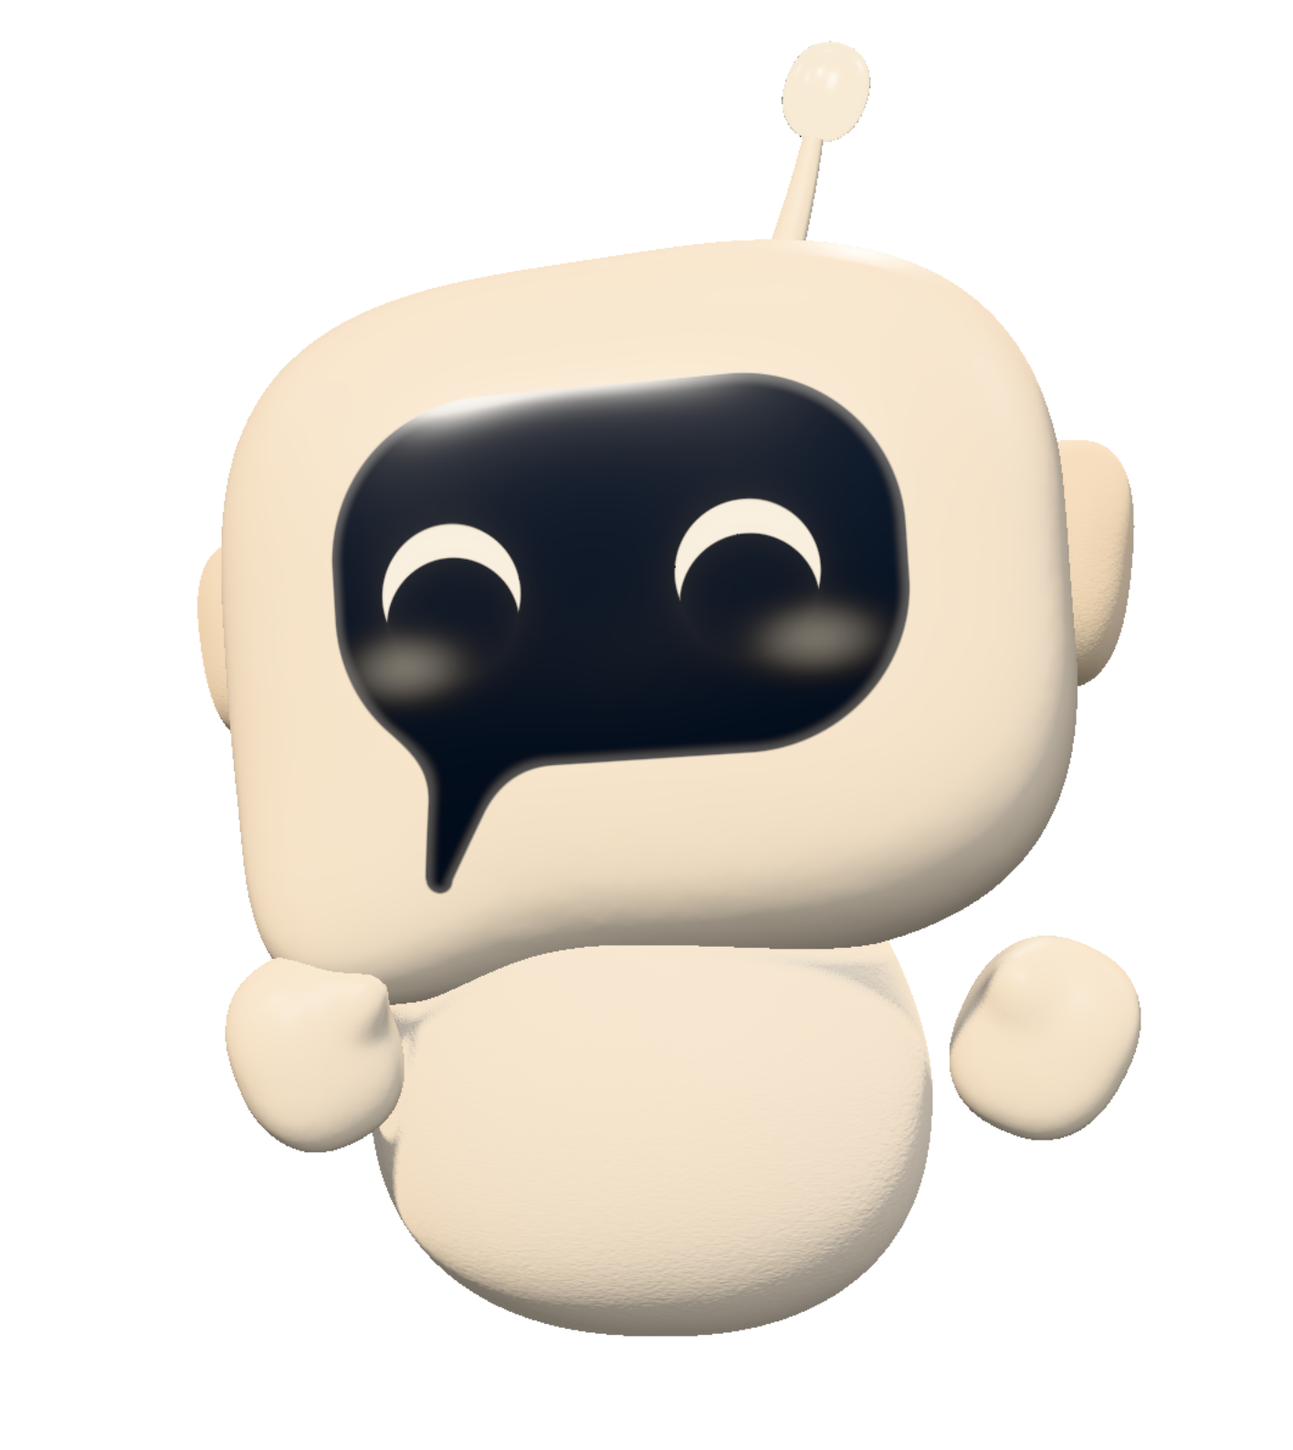
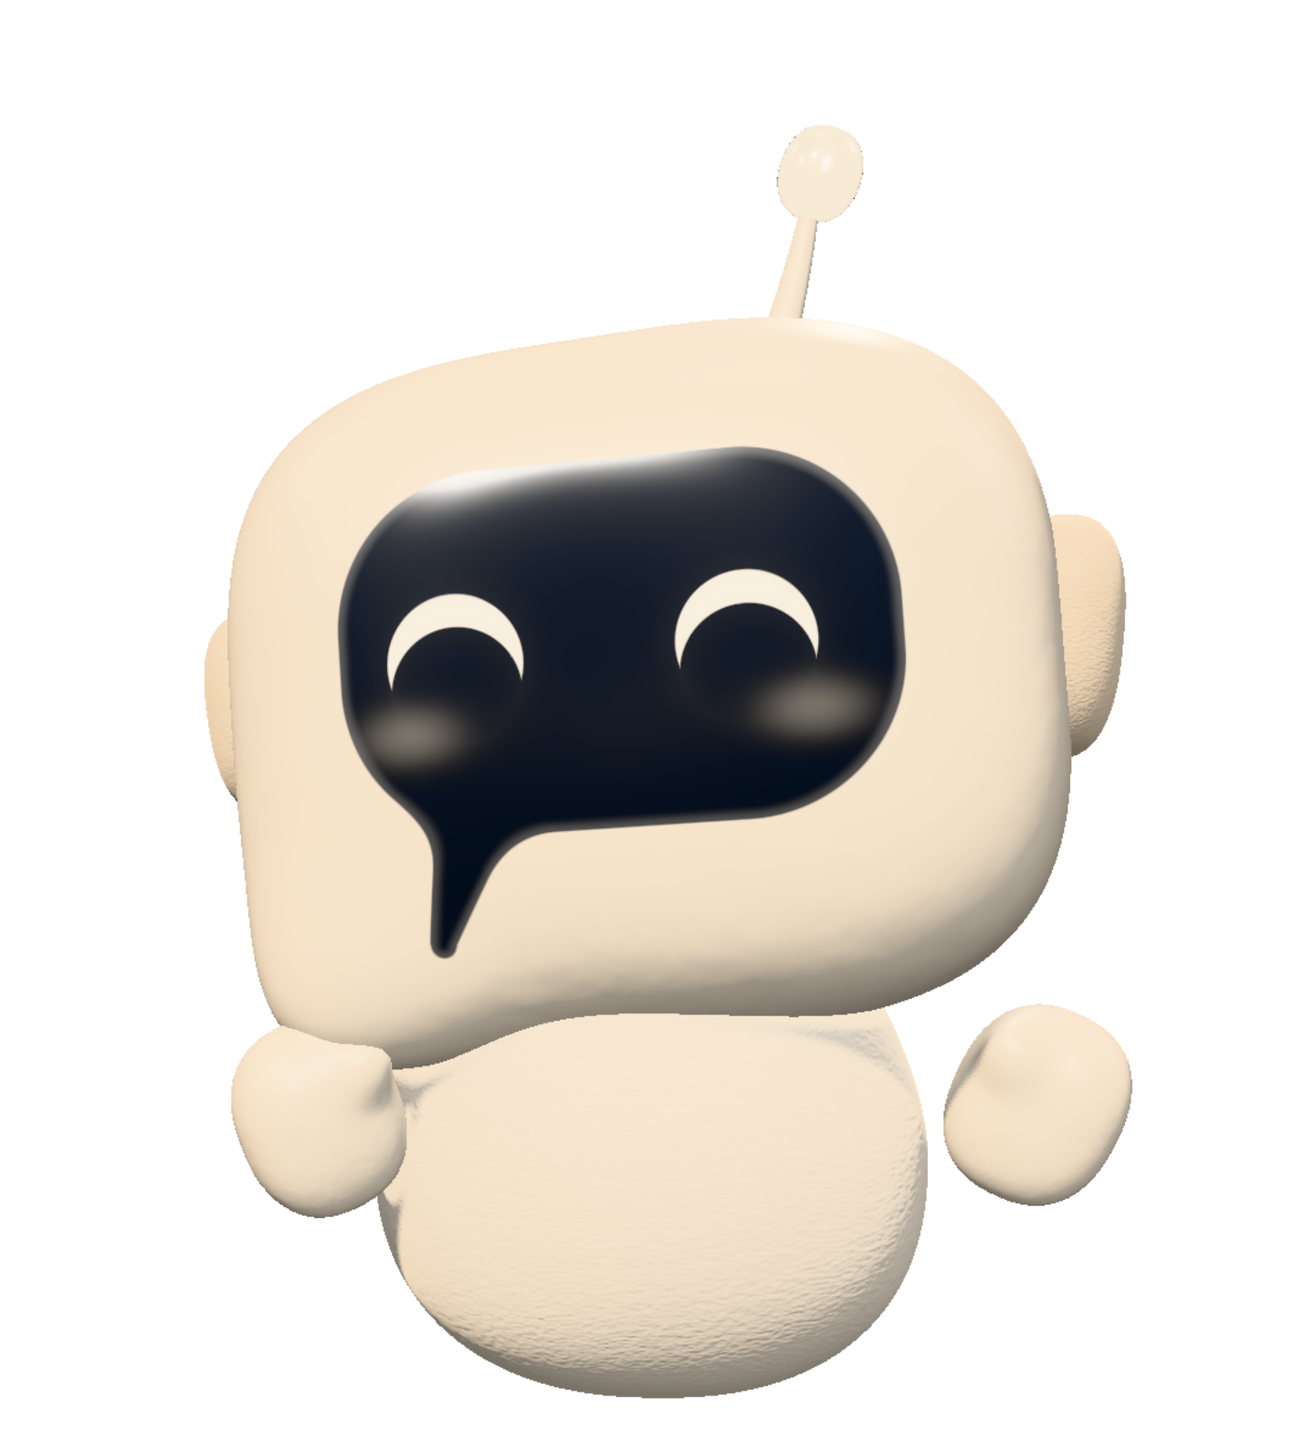
Framing fix (true mascot extents), docs (README, MASCOT, ARCHITECTURE), screenshot set, mobile caption

Changed region(s): [[0.1554, 0.0309, 0.9011, 0.9874]]

diff --git a/src/gl/World.ts b/src/gl/World.ts
@@ -17,8 +17,8 @@ import { createGlyphAtlas } from './passes/glyphAtlas';
 import { motionAllowed } from '@/scripts/motion';
 
 const HUES: Record<HueName, string> = { agents: '#f2b560', automation: '#5cd6c4', products: '#ff7d61', research: '#8db3ff', studio: '#f3e6cf' };
-const MASCOT_HEIGHT = 2.55; // rig units, floor to sprout tip
-const MASCOT_CENTER_Y = 1.25;
+const MASCOT_HEIGHT = 3.0; // rig units, measured floor (y = -0.08) to the top of the sprout bulb (y = 2.92)
+const MASCOT_CENTER_Y = 1.42;
 /** Let the browser breathe between heavy start-up steps, so no single task blocks input for long. */
 const yieldToMain = () => new Promise<void>((r) => setTimeout(r, 0));
 const damp = (a: number, b: number, l: number, dt: number) => a + (b - a) * (1 - Math.exp(-l * dt));
@@ -315,7 +315,7 @@ export class World {
     let pop = 1;
     if (anchor) {
       const r = anchor.el.getBoundingClientRect();
-      const targetH = Math.min(r.height, r.width * 1.1, H * 0.74) * 0.86;
+      const targetH = Math.min(r.height, r.width * 1.25, H * 0.86) * 0.97;
       const cy = (r.top + r.bottom) / 2;
       const cx = (r.left + r.right) / 2;
       const since = now - this.transition.at;

diff --git a/docs/MASCOT.md b/docs/MASCOT.md
@@ -1,0 +1,146 @@
+# Adi: the ADAI Systems character
+
+Adi is ADAI's real-time 3D companion. This document covers:
+- the character design and where it comes from;
+- the animation and expression system;
+- the asset pipeline;
+- the contract a future hand-authored model must follow to replace the procedural one without touching the website.
+
+Working name: **Adi** (from ADAI). The name is a placeholder; see "Decisions for Alex" at the end.
+
+## 1. Identity: from the mark to a character
+
+The existing ADAI mark (favicon `public/favicon.svg`, also inside `public/brand/adai-wordmark-source.svg`) is a circle containing a **speech bubble** with its tail at the lower left and **two round eyes**. Adi keeps that face and that idea, and nothing is extruded or traced:
+
+| Mark | Adi |
+|---|---|
+| Speech bubble | The whole **head** is a soft speech bubble, a sculpted superellipsoid with the bubble's tail as a nub at the lower left. |
+| Bubble inside the circle | A glossy ink **visor** in the same bubble shape, tail included, sitting on the face. |
+| Two round eyes | Two glowing round eyes at the **mark's exact proportions**: centres at ±25.8 % of the visor width, radius 12.5 % of it. |
+
+Everything else is new:
+- a soft plush pebble **body**;
+- floating mitten **hands** with soft thumbs;
+- felted **ear cushions**, deliberately unequal;
+- a bendy **thought sprout** that grows off-centre and leans;
+- a **chest light**.
+
+### Design rules
+- **Soft, not mechanical.** No joints, panels, seams, screws, circuit patterns or segmented limbs. Satin silicone for the head and hands, plush for the body, felt for the cushions.
+- **Small asymmetries:** bubble tail on one side, sprout off-centre and leaning, right cushion 12 % bigger and tilted, top-right of the head slightly fuller.
+- **Readable at low resolution.** Big shapes, one dark visor against a light shell, eyes that glow. The face survives being reduced to a handful of glyph cells.
+- **Colour carries meaning.** Adi is cream. The eyes, sprout bulb, chest light and rim light take the colour of the kind of work on screen: amber for agents, aqua for automation, coral for apps, sky for research, warm cream for the studio. This follows the existing Atlas rule that a hue stands for one kind of work.
+- **Personality:** friendly, curious and quick, slightly playful without being childish. Adi listens (cushions), thinks (the sprout glows, and the visor shows the three typing dots of a chat bubble) and talks (a voice waveform on the visor).
+
+## 2. How Adi is built today (procedural)
+
+All code is in `src/gl/mascot/`.
+
+| File | What it does |
+|---|---|
+| `shapes.ts` | Sculpts every part from high-resolution spheres reshaped per direction (superellipsoids plus soft directional bulges). The visor is sampled from the same surface as the head, so it hugs it exactly. |
+| `materials.ts` | Satin silicone, plush, cushion, glow and core materials (`MeshPhysicalMaterial`: sheen, clearcoat). Micro-surface normal maps are generated at runtime, so no texture downloads. |
+| `faceMaterial.ts` | The face: a signed-distance-field shader for the bubble visor, both eyes, lids, smile crescents, gaze, catch-lights, blush, the talking waveform and the typing dots. |
+| `expressions.ts` | Eleven expressions as parameter sets: neutral, happy, curious, surprised, thinking, focused, talking, excited, confused, sleepy, proud. |
+| `poses.ts` | Story poses used by page sections: expression + arrival gesture + hue + glyph styling + body turn. |
+| `ProceduralMascot.ts` | Assembles the rig and animates it. |
+| `rig.ts` | The `MascotRig` interface the website talks to. |
+| `GltfMascot.ts` | The same interface, for an authored GLB. |
+
+### Animation system (all frame-rate independent)
+- **Gaze leads.** Eyes (fast), then head (medium), then body (slow) follow the cursor, with clamps (head yaw ±31°, pitch ±19°). Micro-saccades run when the pointer is idle. A call to action under the pointer draws Adi's gaze to it.
+- **Blinking:** random intervals of 2.2 to 5.6 s, with an 18 % chance of a double blink.
+- **Idle life:**
+  - breathing, plus a slow sway and head drift;
+  - after 28 s with no input, Adi gets **sleepy** and wakes with a startle on the next input.
+- **Springs everywhere.** The hands and the sprout are damped springs, so every move has follow-through. A jump has gravity and squash-and-stretch on landing.
+- **Gestures:** keyframed hand targets layered over the springs: wave, point, think (hand to chin), cheer (both hands up and a hop), present (palm toward the content), shrug, nod.
+- **Reactions:**
+  - **Poke** (click on Adi): surprised, then happy, plus a hop and a boing of the sprout.
+  - **Startle:** a very fast pointer flick near Adi.
+  - **Notice:** the pointer arriving near Adi makes it curious.
+- **Story choreography** (`src/gl/World.ts`):
+  - Each page section can hold an empty box `data-mascot-anchor data-pose="…"`. Adi frames itself into the most central visible box.
+  - Adi glides over short distances, and pops out and back in over long ones, so it never sweeps across text.
+  - On arrival it changes pose, plays the gesture, shifts hue and runs a glyph sweep.
+  - The boxes are ordinary CSS, so the choreography is responsive by construction. Scrolling is never hijacked.
+- **Page events.** Any script can send `window.dispatchEvent(new CustomEvent('adai:mascot', { detail: { expression, gesture, pose, hue } }))`. The demos and the brief builder use this.
+
+### Reduced motion
+With `prefers-reduced-motion`, or the header toggle:
+- no idle motion, gestures, springs, glide or glyph animation;
+- Adi holds a static pose and renders only when something changes.
+
+## 3. The glyph renderer (Adi in letters)
+
+Code: `src/gl/passes/`.
+1. Adi renders into an HDR target with a transparent background.
+2. A reduction pass averages each glyph cell (16 taps), so glyph choice is stable rather than flickering.
+3. The composite:
+   - draws the clean render;
+   - swaps in **typographic glyphs** from a ramp set in IBM Plex Mono (`· . : - ~ + = * o x % # @`), whose densest glyph is **the ADAI mark itself**;
+   - shows them inside a cursor lens and during story sweeps, with a dithered edge so they dissolve cell by cell;
+   - adds an ambient glyph aura in the section hue, a soft halo and a contact shadow.
+
+This is deliberately different from the studied reference site, which uses rounded-square holes and no letters (see the research spec §12).
+
+## 4. Asset pipeline (replaceable without touching the site)
+
+```text
+public/mascot/manifest.json   { "renderer": "procedural" }  or  { "renderer": "gltf", "src": "/mascot/adi.glb", "faceShader": true }
+        │
+        ▼
+World.loadMascot() ── gltf ok? ──► GltfMascot (authored)  ──┐
+        │ (any failure)                                     ├─► MascotRig interface ─► story, glyphs, events
+        └────────────────────────► ProceduralMascot ────────┘
+```
+
+**Scripts:**
+- `npm run mascot:glb`: exports the live procedural Adi as `assets-src/mascot/adi-blockout.glb` (2 MB), with named nodes per the contract below. It's the **starting blockout for Blender**: correct proportions and naming, ready to retopologise, UV, rig and animate.
+- `npm run poster`: renders `public/mascot/poster.{png,webp}` from the site's own renderer. It's the still shown before WebGL starts and whenever WebGL is unavailable. Re-run it after changing Adi.
+
+Both scripts need the dev server (`npm run dev`) running.
+
+### GLB contract
+
+To replace the procedural Adi, deliver a GLB with:
+
+| Kind | Required names | Notes |
+|---|---|---|
+| Nodes | `head` (look-at pivot), `body`, `hand_L`, `hand_R`; optional `sprout` | Y up, +Z forward, metres-like units. Floor at y=0, total height about 2.55, visual centre at y≈1.25 (or set `headCenterY` in the manifest). |
+| Mesh | `visor` | Its material is replaced by the procedural face shader (`faceShader: true`). The shader reads **object-space x/y in head units**: visor centre at the origin, width about 1.28. Keep the visor front-facing in that space. |
+| Morph targets | `blink_L`, `blink_R`, `smile`, `surprise`, `squint`, `think` | Optional. These are used if present, and only matter if you turn the face shader off and author the face instead. |
+| Clips | `idle_loop`, `wave`, `point`, `think`, `cheer`, `present`, `shrug`, `nod` | `idle_loop` plays continuously; the others play once on demand. |
+| Materials | `glow`, `core` | These take the section hue as emissive. |
+
+**Budgets** (from research spec §4.1):
+
+| | Desktop | Mobile |
+|---|---|---|
+| Triangles | ≤ 25k | ≤ 10k |
+| Bones | ≤ 60 | ≤ 60 |
+| Morph targets | ≤ 8 | ≤ 8 |
+| Textures | KTX2: ETC1S colour, UASTC normal | KTX2 |
+| GLB size (meshopt + KTX2) | ≤ 2.5 MB | ≤ 1.0 MB |
+| GPU texture memory | ≤ 24 MB | ≤ 8 MB |
+
+Optimise with `gltf-transform optimize --compress meshopt --texture-compress ktx2`.
+
+## 5. Producing the final hand-authored Adi (recommended plan)
+
+1. **Concept round.** Three to five sheets exploring proportions and materials around this design: the bubble head and the mark's eyes are fixed; the rest is open.
+   - Higgsfield: generation was **not** used. On 15 November 2026 its unlimited allowance reported `available: false` and the balance was 0.05 credits, so nothing was generated to avoid paid credits.
+   - If the allowance is activated, use `generate_image` for turnaround and expression sheets from written prompts only. Never use reference images of other mascots or of the studied site.
+2. **Blockout.** Start from `assets-src/mascot/adi-blockout.glb` in Blender. Proportions and names are already correct.
+3. **Sculpt and retopologise** to budget. Add subtle surface detail: soft creases where the head meets the body, a stitched seam on the plush, a slight dent in the cushions.
+4. **UV and textures:** a subtle colour variation on the silicone, and a plush fibre normal. Bake to KTX2.
+5. **Rig:** root, spine, neck, head, hands, and a two-bone sprout chain. Do not bake look-at; the site does it.
+6. **Animate** the clips in the contract. Keep them additive-friendly and avoid root motion.
+7. **Swap.** Drop `adi.glb` in `public/mascot/`, set the manifest, re-run `npm run poster`, then run the tests.
+
+AI image-to-3D output (e.g. Higgsfield `generate_3d`) is a **blockout only**. It still needs steps 3 to 6.
+
+## 6. Decisions for Alex
+- The name "Adi".
+- Whether Adi appears on case-study pages (currently it doesn't, to keep them fast and focused).
+- Whether to commission a hand-authored Adi or keep the procedural one: it already meets the budgets.

diff --git a/README.md b/README.md
@@ -1,0 +1,121 @@
+# ADAI Systems: website (2026 rebuild with Adi)
+
+The ADAI Systems studio site, rebuilt around **Adi**, an original real-time 3D character grown out of the ADAI mark, and a typographic **glyph renderer**. It keeps everything the current site does:
+- every project, with honest case studies;
+- four service lines backed by proof;
+- a privacy-first brief builder;
+- no tracking.
+
+It adds an interactive story on top.
+
+> Status: local build only. Not deployed and not connected to the live site. The live site at www.adai.systems is untouched.
+
+![Home](docs/screenshots/home-desktop.png)
+
+## Run it
+
+```bash
+npm install
+npm run dev          # http://localhost:4321
+npm run build        # astro check + static build to dist/
+npm run preview      # serve dist/ (http://localhost:4321 by default)
+npm test             # Playwright + axe suite (builds and serves on :4322)
+```
+
+Node 22.12+ is required. Tests and the asset scripts use the installed Google Chrome (`channel: 'chrome'`) so WebGL runs on the GPU.
+
+| Script | What it does |
+|---|---|
+| `npm run poster` | Re-renders Adi's fallback still (`public/mascot/poster.*`) from the live renderer. Needs `npm run dev`. |
+| `npm run mascot:glb` | Exports the procedural Adi as a GLB blockout for Blender (`assets-src/mascot/adi-blockout.glb`). Needs `npm run dev`. |
+| `node scripts/shot.mjs <url> <out.png> [w h waitMs] [--mouse x,y] [--scroll y] [--reduced]` | Quick GPU screenshots for review. |
+
+## What is on the site
+
+| Route | Content |
+|---|---|
+| `/` | Hero with Adi. The four services, then four story chapters, each with a live demonstration and Adi in that service's colour and mood. Selected work, how a project runs, honest studio numbers, call to action. |
+| `/work`, `/work/[slug]` | Filterable archive of all 15 projects, and 15 case studies (facts strip, lead media or video, story rows, "Said plainly", connected work, older and newer). |
+| `/services`, `/services/[path]` | Overview with a side-by-side comparison, and four landing pages (`ai-agents`, `automation`, `apps`, `prototypes`), each with proof-linked capabilities, a demo, fit, proof projects and process. |
+| `/process` | How ADAI works: steps, principles and FAQ (with FAQPage structured data). |
+| `/studio` | Who runs the studio, the full project timeline, and domains. |
+| `/research` | Research projects and STEVIE's real replies. |
+| `/start` | Project brief builder. It writes the email live; nothing is sent or stored. It opens in your mail app or copies, and Adi reacts as the brief takes shape. |
+| `/contact` | One address, read by a person. |
+| `/mascot` | Meet Adi: live expression, gesture and colour controls, and where the character comes from. |
+| `/privacy`, `/terms`, 404 | Legal wording carried over and updated for the motion toggle and the 3D character. A custom 404 with a confused Adi. |
+
+URLs match the live site (no trailing slash, `/work/<slug>`, `/services/<path>`), so search rankings carry over. A `vercel.json` with `cleanUrls` is included for when it's deployed.
+
+### The interactive demonstrations
+
+| Demo | Basis |
+|---|---|
+| **Agents** | An illustrative phone-agent replay: ask, look up, quote, confirm, book, and recovering from an interruption. This is the documented Voice Agent flow, clearly labelled as a made-up example. |
+| **Automation** | The Call Recording Analyser's watched-folder pipeline, with made-up file names, labelled. |
+| **Apps** | Real Lockout iPhone captures and real Margin screens. |
+| **Research** | STEVIE's real, unedited replies from the Glimmer repository. |
+
+## Content: where it comes from
+
+All facts, copy and media come from the existing ADAI site (`../adai-systems-site`, the Atlas rebuild). Nothing was invented:
+- `src/content/projects.ts`, `services.ts` and `site.ts` are carried over from it;
+- `docs/source/content-inventory.md` is its fact inventory, the source for every claim;
+- `public/work/` holds the real project media (including the already-masked hospitality captures) and `public/og/` the share cards.
+
+The private notes file was **not** copied. Its rules were respected:
+- the voice-agent business is never named;
+- no ratings are shown;
+- hospitality media stays masked.
+
+The only new copy describes how the studio works (restating `services.ts`), Adi, and the demo labels. To add a project, follow the instructions at the top of `src/content/projects.ts`.
+
+## Architecture
+
+| Layer | Implementation |
+|---|---|
+| Framework | **Astro 7** (static output). Every page is prerendered HTML. The page scripts are a few kilobytes. |
+| WebGL | **three.js r187**. One fixed canvas behind the page, loaded as one 147 KB gzipped chunk after the page is interactive, and only on real GPUs (software rasterisers get the poster). |
+| Mascot | `src/gl/mascot/`: procedural character behind a `MascotRig` interface, with a GLB adapter for an authored replacement. See [docs/MASCOT.md](docs/MASCOT.md). |
+| Glyphs | `src/gl/passes/`: cell-averaged typographic glyph pass, an atlas built at runtime from IBM Plex Mono plus the ADAI mark. |
+| Story | `src/gl/World.ts`: layout-driven choreography via `data-mascot-anchor` boxes, with no scroll hijacking. |
+| Motion | `src/scripts/motion.ts`: OS preference or the header toggle. Lenis smooth scrolling only with a fine pointer and motion allowed. |
+| Styles | `src/styles/global.css` tokens, carried over from Atlas (ink, bone; amber, aqua, coral and sky mean agents, automation, apps and research), plus scoped component styles. |
+| Fonts | Mona Sans (wide display) and IBM Plex Mono, both SIL OFL and self-hosted via Fontsource. |
+
+More detail: [docs/ARCHITECTURE.md](docs/ARCHITECTURE.md).
+
+## Quality checks (latest run)
+
+- `astro check`: 0 errors, 0 warnings.
+- `npm test`: **50/50 passing**:
+  - all 30 routes return 200, with one h1, a title, a meta description, a canonical URL, JSON-LD and no console errors;
+  - axe-core finds no serious or critical WCAG 2.2 AA issues on the 11 main pages;
+  - no horizontal scroll at 375 px on any page;
+  - the WebGL world boots on GPU Chrome, and the no-WebGL fallback works;
+  - reduced motion and the motion toggle work;
+  - the brief builder makes no network requests and writes the email;
+  - archive filters, the 404 page and the sitemap all check out.
+- Lighthouse, mobile emulation with 4× CPU throttling:
+
+| Page | Performance | Accessibility | Best practices | SEO |
+|---|---|---|---|---|
+| `/` | 83 | 100 | 100 | 100 |
+| `/services/ai-agents` | 84 | 100 | 100 | 100 |
+| `/work/margin` | 96 | 100 | 100 | 100 |
+
+## Research compliance
+
+The techniques were informed by `../research/autopilot/` (spec §12). No code, shaders, assets, fonts, copy, narrative or parameter sets from the studied site were used:
+- the glyph effect uses real letters and the ADAI mark, not rounded-square holes;
+- there is no forced chapter auto-scroll;
+- Adi is real-time 3D, not video plus depth maps;
+- the story and palette are ADAI's own.
+
+## Decisions for Alex
+
+See the end of [docs/MASCOT.md](docs/MASCOT.md) and the final report. In short:
+- the mascot's name;
+- whether to commission a hand-authored Adi;
+- confirming the process copy (it restates `services.ts`, which was marked "for Alex to confirm");
+- when and where to deploy.

diff --git a/docs/ARCHITECTURE.md b/docs/ARCHITECTURE.md
@@ -1,0 +1,66 @@
+# Architecture notes
+
+## Rendering
+
+- **One renderer, one canvas.** `.gl-stage` is fixed behind the page (`pointer-events: none`, `aria-hidden`).
+- **Loading conditions.** `src/scripts/gl-loader.ts` only boots WebGL when all of these hold:
+  - WebGL2 is available with `failIfMajorPerformanceCaveat`;
+  - the renderer isn't a software rasteriser (SwiftShader or llvmpipe);
+  - `Save-Data` is off and `?nowebgl` isn't set.
+
+  Otherwise `html.gl-fallback` is set and every `MascotAnchor` shows the rendered poster.
+- **Start-up** (`World.init`) yields to the main thread between steps (environment map, mascot, glyph atlas, async shader compile), so no single task blocks input for long.
+- **Frame:**
+  1. key light with a 1024² soft shadow that follows Adi's scale;
+  2. scene into a half-float target;
+  3. 16-tap cell reduction;
+  4. composite with tone mapping (Neutral) straight to the canvas.
+
+  The device pixel ratio is capped at 1.5 on desktop and 1.25 on coarse pointers. A frame-time watchdog steps it down (to 0.85) or back up.
+- **Pausing.** Rendering stops when the tab is hidden. Under reduced motion it renders only when something changes.
+
+## Choreography
+
+- `[data-mascot-anchor]` boxes in the page layout say where Adi stands and in which pose.
+- The world picks the most central box that's visible enough, then:
+  - frames Adi to the box's size;
+  - glides over short distances, and pops out and in over long ones;
+  - applies the pose: expression, gesture, hue, glyph amount, turn toward the content.
+- Sticky boxes (the chapters) keep Adi parked beside their demo while the text scrolls.
+- Scroll is never written to by script.
+
+## Page ↔ mascot API
+
+`window.dispatchEvent(new CustomEvent('adai:mascot', { detail }))`, where `detail` is `{ pose?, expression?, hold?, gesture?, hue? }`.
+- The helper is `src/scripts/mascot-bus.ts`.
+- Pages never import WebGL code, so they work identically without it.
+- Elements with `data-mascot-react` (main calls to action) make Adi look at them and react on hover or focus.
+
+## Accessibility
+
+- Semantic HTML: a single h1, ordered headings, landmarks, a skip link, visible focus, and 44 px targets.
+- Canvas content is decorative; everything meaningful is DOM.
+- Demos:
+  - keyboard operable, using real buttons, a tablist with arrow keys, and live regions for updates;
+  - illustrative content is labelled as such;
+  - under reduced motion they show their final state.
+- The motion toggle state lives in `sessionStorage`, as disclosed on `/privacy`.
+
+## SEO
+
+- Static HTML, same URLs as the live site, and canonical URLs on www.
+- Sitemap (`@astrojs/sitemap`) and `robots.txt`.
+- Open Graph and Twitter cards, reusing the existing share cards.
+- JSON-LD:
+  - Organization and WebSite on every page;
+  - BreadcrumbList on inner pages;
+  - CreativeWork for case studies, Service for services, FAQPage for `/process`.
+- Descriptions come from content.
+
+## Performance budget (spec §10) vs actual
+
+| Budget | Spec | Actual |
+|---|---|---|
+| Initial JS | ≤ 300 KB br | About 3 KB gzipped of page scripts, plus Lenis 5 KB gzipped at idle |
+| WebGL chunk | Deferred ≤ 150 KB | 147 KB gzipped (three.js + world), after load and idle |
+| Hero-critical assets | ≤ 4 MB | Poster WebP 26 KB, fonts about 90 KB. Adi is procedural: 0 bytes of 3D assets downloaded. |
